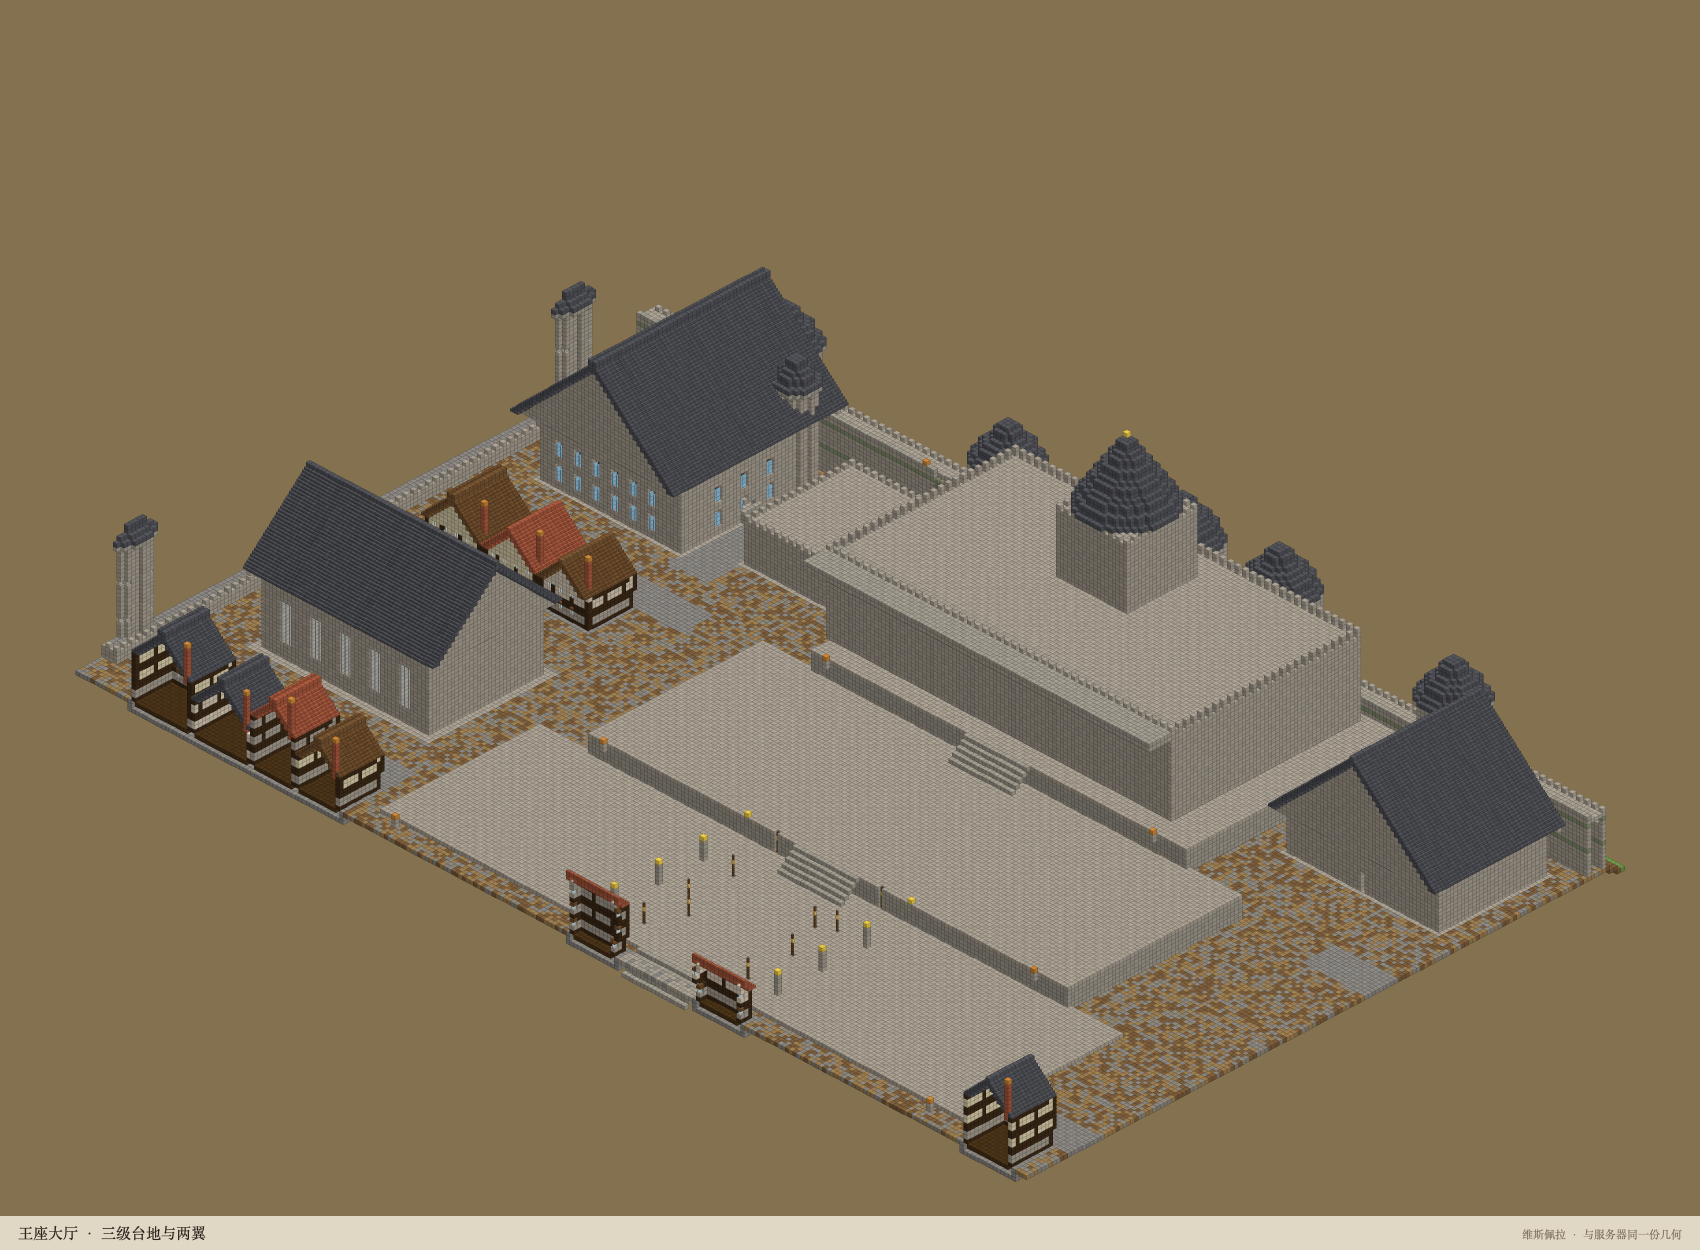
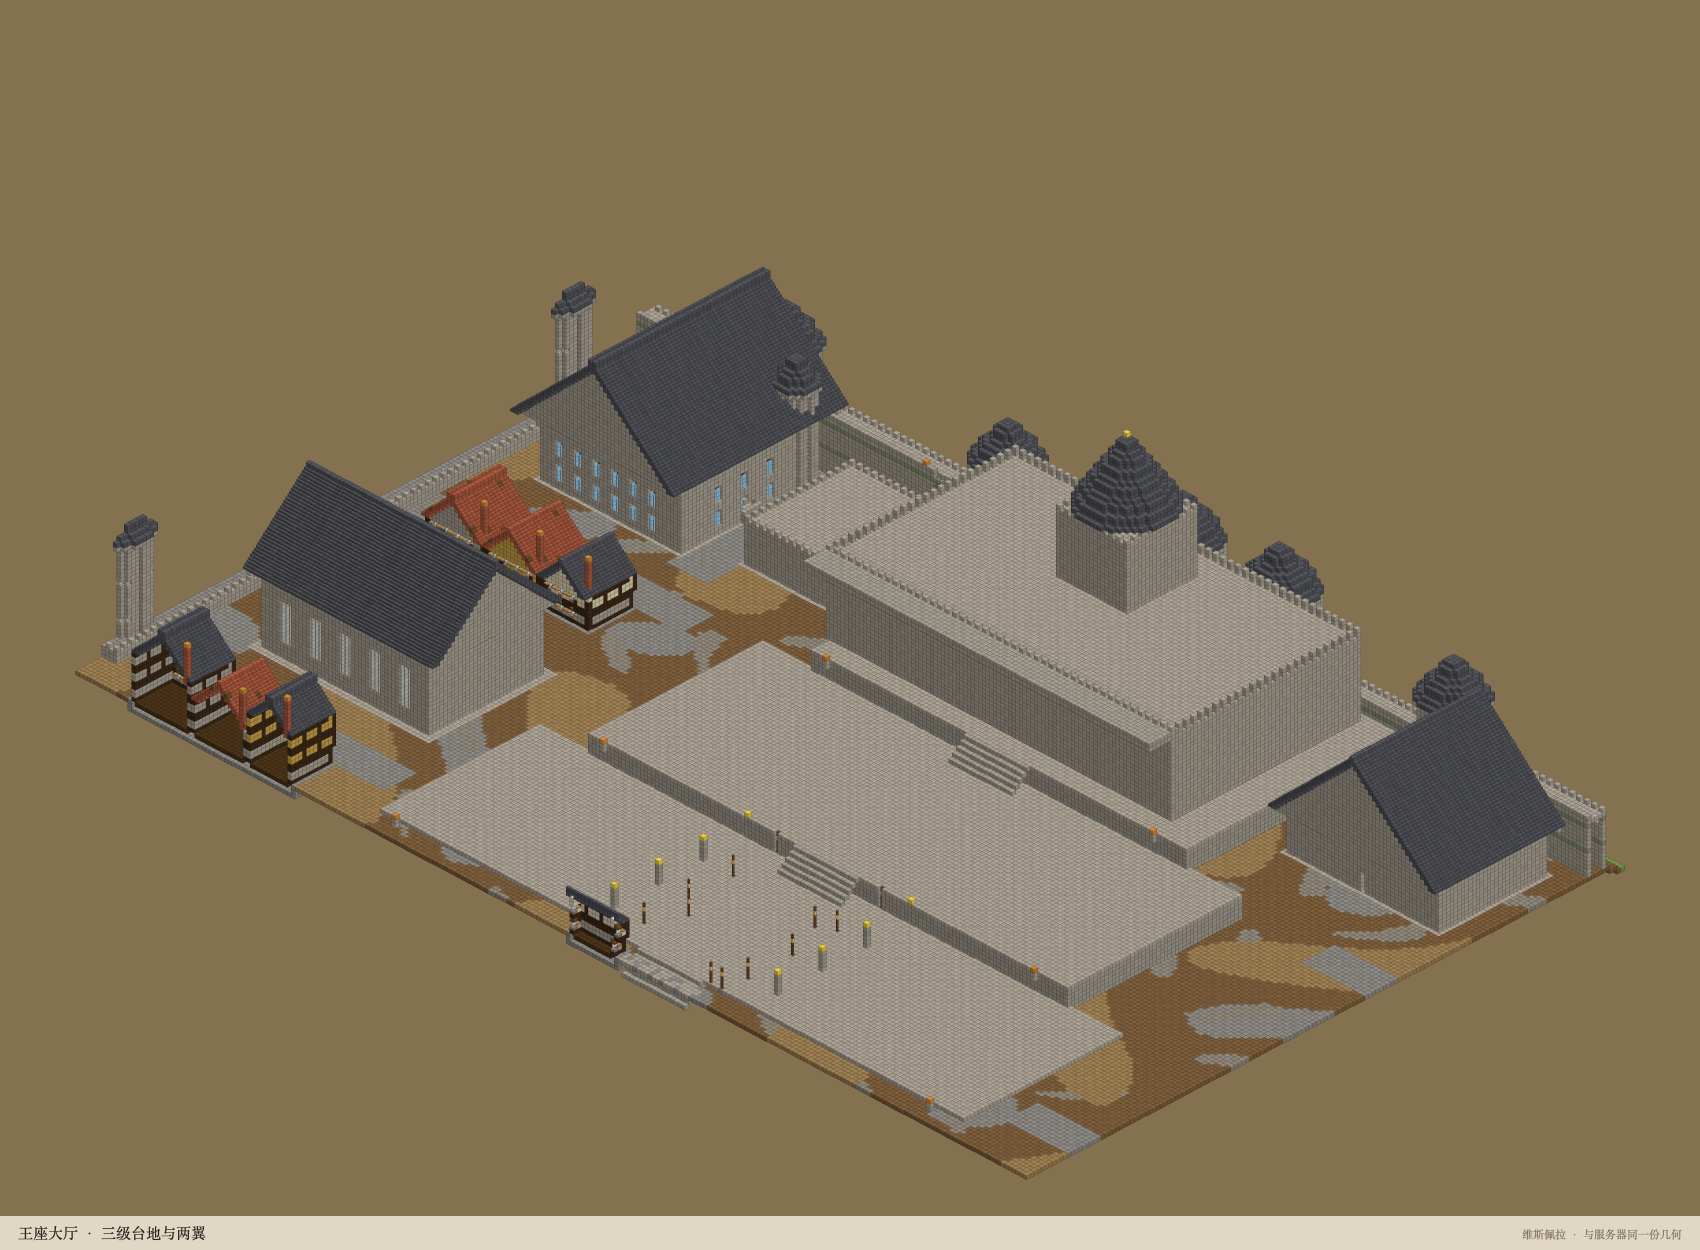
街景层：竖柱、窗框、门口家什、街边杂物、成片地面；视距 16
远景图好看、走进去违和的根因，是细节全在 3 格以上：0–2 米这一层原来是空的。
这一轮补的就是这一层。

- 半木结构改竖柱：原来 (x+z)%5 是斜纹，远看像纹理，近看是斜杠，墙因此发飘
- 窗：加窗台（石砖半砖）与两侧木百叶（活板门），窗不再是墙上一个洞
- 门：加门槛石与门边一件家什（桶/筐），门洞不再正对空屋
- 街边杂物（streetProps）：墙根的桶、柴堆、推车、马槽、指路牌、水洼、陶罐，
  只放在贴着墙的街沿，按坐标散点、间距 13 格一件
- 地面改低频成片：逐格随机四色在近景里只会被读成噪点；现在用正弦低频场分片，
  土 / 碎石 / 旧铺石各自成块，对比度也调低了
- 屋面加零星旧瓦：整片单色的屋面近看像一块塑料板
- 视距 view-distance 10 → 16（160 格 → 256 格），simulation-distance 8 → 10

新增两张街景验收图（13、14）；文档补"为什么图好看、街景违和"一节。

验证：41 项单测全绿；冒烟 1,946,828 方块，塑形 54s + 建造 15s，18 探针全过；
server.properties 确认 view-distance=16。

diff --git a/docs/设计图/流明陨城-规划图.html b/docs/设计图/流明陨城-规划图.html
@@ -160,7 +160,7 @@
 <h2>规模</h2>
 <table>
 <tr><td>城墙</td><td>600 × 600，四门、十二座墙塔</td></tr>
-<tr><td>方块</td><td>1,950,463（含墙外）</td></tr>
+<tr><td>方块</td><td>1,946,828（含墙外）</td></tr>
 <tr><td>最高点</td><td>圣座顶坛 78 格 / 王座塔 72 格</td></tr>
 <tr><td>街区</td><td>8 × 8 网格，含 6 处小广场</td></tr>
 </table>

diff --git a/vespera-core/src/main/java/io/github/vampireachao/vespera/core/world/BuildKit.java b/vespera-core/src/main/java/io/github/vampireachao/vespera/core/world/BuildKit.java
@@ -174,13 +174,18 @@ public final class BuildKit {
         int width = ridgeAlongZ ? (bx - ax + 1) : (bz - az + 1);
         int half = width / 2;
         Block body = Palette.roofBody(stairId);
+        // 旧瓦：整片一个色的大屋面在近景里像一块塑料板。
+        // 按坐标散点换一点深色瓦，人眼看得出"这是一片一片铺的"。
+        String wornId = stairId.equals("minecraft:deepslate_tile_stairs")
+                ? "minecraft:deepslate_tile_stairs" : "minecraft:spruce_stairs";
 
         for (int i = 0; i <= half; i++) {
             int level = y + i;
             if (ridgeAlongZ) {
                 for (int z = az - overhang; z <= bz + overhang; z++) {
-                    set(ax + i, level, z, Block.stairs(stairId, "east"));
-                    set(bx - i, level, z, Block.stairs(stairId, "west"));
+                    boolean worn = Math.floorMod(z * 13 + level * 7, 23) == 0;
+                    set(ax + i, level, z, Block.stairs(worn ? wornId : stairId, "east"));
+                    set(bx - i, level, z, Block.stairs(worn ? wornId : stairId, "west"));
                     if (i > 0) {
                         // 楼梯正下方垫实：不垫的话从侧面能看见屋里的光
                         set(ax + i, level - 1, z, body);
@@ -194,8 +199,9 @@ public final class BuildKit {
                 }
             } else {
                 for (int x = ax - overhang; x <= bx + overhang; x++) {
-                    set(x, level, az + i, Block.stairs(stairId, "south"));
-                    set(x, level, bz - i, Block.stairs(stairId, "north"));
+                    boolean worn = Math.floorMod(x * 13 + level * 7, 23) == 0;
+                    set(x, level, az + i, Block.stairs(worn ? wornId : stairId, "south"));
+                    set(x, level, bz - i, Block.stairs(worn ? wornId : stairId, "north"));
                     if (i > 0) {
                         set(x, level - 1, az + i, body);
                         set(x, level - 1, bz - i, body);
@@ -411,8 +417,12 @@ public final class BuildKit {
                             continue;
                         }
                         boolean beamRow = y == base || y == base + FLOOR - 1;
-                        boolean post = (xx == jx1 || xx == jx2) && (zz == jz1 || zz == jz2);
-                        boolean timber = beamRow || post || (Math.floorMod(xx + zz, 5) == 0 && f > 0);
+                        boolean corner = (xx == jx1 || xx == jx2) && (zz == jz1 || zz == jz2);
+                        // 立柱沿墙每四格一根。原来用的是 (x+z)%5 的斜纹——远处看是"有纹理"，
+                        // 走到墙根前才发现那是一道道斜杠，既不是柱子也不承重，整面墙因此发飘。
+                        int along = (zz == jz1 || zz == jz2) ? xx : zz;
+                        boolean stud = Math.floorMod(along, 4) == 0;
+                        boolean timber = beamRow || corner || (stud && f > 0);
                         Block block;
                         if (f == 0 && !shop) {
                             block = timber ? Palette.DARK_LOG : Palette.STONE_BRICK;
@@ -428,16 +438,28 @@ public final class BuildKit {
             int wy = base + 2;
             for (int xx = jx1 + 2; xx <= jx2 - 2; xx += 3) {
                 if (front.equals("north") || front.equals("south")) {
+                    set(xx, wy - 1, jz1, Block.slab("minecraft:stone_brick_slab", "bottom"));
+                    set(xx, wy - 1, jz2, Block.slab("minecraft:stone_brick_slab", "bottom"));
                     set(xx, wy, jz1, Palette.GLASS);
                     set(xx, wy, jz2, Palette.GLASS);
+                    set(xx - 1, wy, jz1, Palette.OAK_TRAPDOOR);
+                    set(xx + 1, wy, jz1, Palette.OAK_TRAPDOOR);
+                    set(xx - 1, wy, jz2, Palette.OAK_TRAPDOOR);
+                    set(xx + 1, wy, jz2, Palette.OAK_TRAPDOOR);
                     set(xx, wy + 1, jz1, Block.stairs(Palette.SHINGLE_STAIR, "south"));
                     set(xx, wy + 1, jz2, Block.stairs(Palette.SHINGLE_STAIR, "north"));
                 }
             }
             for (int zz = jz1 + 2; zz <= jz2 - 2; zz += 3) {
                 if (front.equals("east") || front.equals("west")) {
+                    set(jx1, wy - 1, zz, Block.slab("minecraft:stone_brick_slab", "bottom"));
+                    set(jx2, wy - 1, zz, Block.slab("minecraft:stone_brick_slab", "bottom"));
                     set(jx1, wy, zz, Palette.GLASS);
                     set(jx2, wy, zz, Palette.GLASS);
+                    set(jx1, wy, zz - 1, Palette.OAK_TRAPDOOR);
+                    set(jx1, wy, zz + 1, Palette.OAK_TRAPDOOR);
+                    set(jx2, wy, zz - 1, Palette.OAK_TRAPDOOR);
+                    set(jx2, wy, zz + 1, Palette.OAK_TRAPDOOR);
                     set(jx1, wy + 1, zz, Block.stairs(Palette.SHINGLE_STAIR, "east"));
                     set(jx2, wy + 1, zz, Block.stairs(Palette.SHINGLE_STAIR, "west"));
                 }
@@ -467,6 +489,32 @@ public final class BuildKit {
                 carve(ax, 0, cz - 1, ax, 2, cz);
                 set(ax, 3, cz, Block.stairs(Palette.SHINGLE_STAIR, "east"));
                 set(ax, 2, cz - 2, Palette.LANTERN);
+            }
+        }
+
+        // 门口：门槛石与门外的一件家什。门洞本身是空的，人一眼看进去什么都没有；
+        // 门口有块石头、有个桶，这栋房子才像有人在住。
+        switch (front) {
+            case "south" -> {
+                set(cx - 1, y0 - 1, bz, Palette.STONE_BRICK);
+                set(cx, y0 - 1, bz, Palette.STONE_BRICK);
+                Block prop = (rnd.nextBoolean() ? Palette.BARREL : Palette.CRATE);
+                set(cx + 2, y0, bz, prop);
+            }
+            case "north" -> {
+                set(cx - 1, y0 - 1, az, Palette.STONE_BRICK);
+                set(cx, y0 - 1, az, Palette.STONE_BRICK);
+                set(cx - 3, y0, az, Palette.CRATE);
+            }
+            case "east" -> {
+                set(bx, y0 - 1, cz - 1, Palette.STONE_BRICK);
+                set(bx, y0 - 1, cz, Palette.STONE_BRICK);
+                set(bx, y0, cz + 2, Palette.BARREL);
+            }
+            default -> {
+                set(ax, y0 - 1, cz - 1, Palette.STONE_BRICK);
+                set(ax, y0 - 1, cz, Palette.STONE_BRICK);
+                set(ax, y0, cz - 3, Palette.BARREL);
             }
         }
 

diff --git a/vespera-core/src/main/java/io/github/vampireachao/vespera/core/world/MedievalCity.java b/vespera-core/src/main/java/io/github/vampireachao/vespera/core/world/MedievalCity.java
@@ -230,6 +230,7 @@ public final class MedievalCity {
         Sacred.colosseumInterior(k);
         Landmarks.nobleQuarter(k);
 
+        streetProps(k);
         fillGaps(k);
         outskirts(k);
         lights(k);
@@ -250,16 +251,19 @@ public final class MedievalCity {
             for (int z = -HALF; z <= HALF; z++) {
                 // 城里不该是草地：一座住满人的中世纪城，空地被踩成夯土、碾成碎石、铺上石头。
                 // 草只留在院子里（courtyard 自己会铺），不留给"没人来过"的空地。
-                int roll = k.rnd.nextInt(100);
+                // 成片，不是逐格随机。远看两者都是"土色"，但人站在街上时，
+                // 每格换一次颜色只会被眼睛读成噪点——这也是街景"发虚"的来源之一。
+                double p = patch(x, z, 0.045, 1.0);
+                double q = patch(x, z, 0.12, 7.0);
                 Block top;
-                if (roll < 34) {
-                    top = Palette.COARSE;
-                } else if (roll < 64) {
-                    top = Palette.PATH;
-                } else if (roll < 88) {
-                    top = Palette.GRAVEL;
+                if (p > 0.42) {
+                    top = Palette.PATH;          // 被踩实的土
+                } else if (q > 0.72) {
+                    top = Palette.GRAVEL;        // 碎石
+                } else if (p < -0.72) {
+                    top = Palette.COBBLE;        // 残存的旧铺石
                 } else {
-                    top = Palette.COBBLE;
+                    top = Palette.COARSE;
                 }
                 k.set(x, -1, z, top);
             }
@@ -278,6 +282,17 @@ public final class MedievalCity {
                 }
             }
         }
+    }
+
+    /**
+     * 低频场：同一块地上取值连续，才会成"片"。
+     *
+     * <p>用两个错相的正弦，够平滑也够便宜；不需要 Perlin。
+     */
+    private static double patch(int x, int z, double scale, double phase) {
+        double a = Math.sin(x * scale * 2.1 + Math.sin(z * scale * 1.3 + phase) * 2.4);
+        double b = Math.sin(z * scale * 2.6 + Math.sin(x * scale * 1.1 + phase) * 2.0);
+        return (a + b * 0.6) / 1.6;
     }
 
     // -- 街道 ---------------------------------------------------------------
@@ -739,6 +754,89 @@ public final class MedievalCity {
             k.set(24 + i * 6, 0, 290, Palette.BARREL);
         }
         k.bump("市井");
+    }
+
+    /**
+     * 街边的东西：墙根的木桶、柴堆、推车、马槽、指路牌、水洼、晾衣杆。
+     *
+     * <p>这些东西只有一到两格高，在远景图里几乎看不见——这也正是问题所在：
+     * 从高处看，城市的"密度"由屋顶与街道构成；站在街上，视线只落在 0–2 格，
+     * 而这一层原来是空的。一条街于是只剩两排墙和一片地。
+     */
+    private static void streetProps(BuildKit k) {
+        for (Street street : STREETS) {
+            int ax = Math.min(street.x1(), street.x2());
+            int bx = Math.max(street.x1(), street.x2());
+            int az = Math.min(street.z1(), street.z2());
+            int bz = Math.max(street.z1(), street.z2());
+            boolean horizontal = (bx - ax) >= (bz - az);
+            if (horizontal) {
+                for (int x = ax + 2; x <= bx - 2; x++) {
+                    prop(k, x, az, 0, -1);
+                    prop(k, x, bz, 0, 1);
+                }
+            } else {
+                for (int z = az + 2; z <= bz - 2; z++) {
+                    prop(k, ax, z, -1, 0);
+                    prop(k, bx, z, 1, 0);
+                }
+            }
+        }
+    }
+
+    /**
+     * 在街沿放一件东西。{@code (dx,dz)} 指向街外——只有那一侧是墙，才说明这是"门口"。
+     */
+    private static void prop(BuildKit k, int x, int z, int dx, int dz) {
+        if (k.taken(x, z, x, z)) {
+            return;
+        }
+        if (!k.taken(x + dx, z + dz, x + dx, z + dz)) {
+            return;
+        }
+        if (Math.floorMod(x * 31 + z * 17, 13) != 0) {
+            return;
+        }
+        // 沿街方向：与 (dx,dz) 垂直
+        int lx = dz != 0 ? 1 : 0;
+        int lz = dx != 0 ? 1 : 0;
+        switch (Math.floorMod(x * 7 + z * 13, 9)) {
+            case 0 -> k.set(x, 0, z, Palette.BARREL);
+            case 1 -> k.set(x, 0, z, Palette.CRATE);
+            case 2 -> {
+                // 柴堆：两捆，一横一竖
+                k.fill(x, 0, z, x + lx, 0, z + lz, Block.log("minecraft:oak_log",
+                        lx != 0 ? "x" : "z"));
+                k.set(x, 1, z, Block.log("minecraft:oak_log", "y"));
+            }
+            case 3 -> {
+                // 手推车
+                k.fill(x, 0, z, x + lx, 0, z + lz, Palette.OAK_PLANK);
+                k.set(x, 1, z, Palette.OAK_PLANK);
+                k.set(x + lx, 0, z + lz, Palette.OAK_FENCE);
+            }
+            case 4 -> {
+                // 马槽：三面栅栏，中间有水
+                for (int i = 0; i <= 2; i++) {
+                    int px = x + lx * i;
+                    int pz = z + lz * i;
+                    k.set(px, 0, pz, i == 1 ? Palette.WATER : Palette.SPRUCE_PLANK);
+                    k.set(px, 1, pz, Palette.SPRUCE_FENCE);
+                }
+            }
+            case 5 -> {
+                // 指路牌
+                k.fill(x, 0, z, x, 2, z, Palette.SPRUCE_FENCE);
+                k.set(x, 3, z, Palette.SIGN);
+            }
+            case 6 -> {
+                // 水洼：雨后的低处
+                k.set(x, -1, z, Palette.WATER);
+                k.set(x + lx, -1, z + lz, Palette.COARSE);
+            }
+            case 7 -> k.set(x, 0, z, Palette.POT);
+            default -> k.set(x, 0, z, Palette.HAY);
+        }
     }
 
     // -- 房子 ---------------------------------------------------------------

diff --git a/vespera-core/src/test/java/io/github/vampireachao/vespera/core/world/MedievalCityTest.java b/vespera-core/src/test/java/io/github/vampireachao/vespera/core/world/MedievalCityTest.java
@@ -68,7 +68,8 @@ class MedievalCityTest {
     @Test
     @DisplayName("城外也有东西：南港的水、竞技场的沙地")
     void outskirtsExist() {
-        assertEquals("minecraft:water", scene().get(-170, -1, 350).id(), "运河没有水");
+        // 水面比岸低两格：与岸齐平的水看着像泳池
+        assertEquals("minecraft:water", scene().get(-170, -2, 350).id(), "运河没有水");
         assertNotNull(scene().get(185, -1, 185), "角斗场沙地没有方块");
         assertNotNull(scene().get(-420, 20, 100), "风车没有立起来");
     }

diff --git a/vespera-dev/src/main/java/io/github/vampireachao/vespera/dev/DevServer.java b/vespera-dev/src/main/java/io/github/vampireachao/vespera/dev/DevServer.java
@@ -452,8 +452,8 @@ public final class DevServer {
                 "white-list=false",
                 "spawn-protection=0",
                 "max-players=20",
-                "view-distance=10",
-                "simulation-distance=8",
+                "view-distance=16",
+                "simulation-distance=10",
                 "allow-nether=true",
                 "enable-command-block=true",
                 "level-name=" + (config.flat ? "showcase" : "vespera"),
